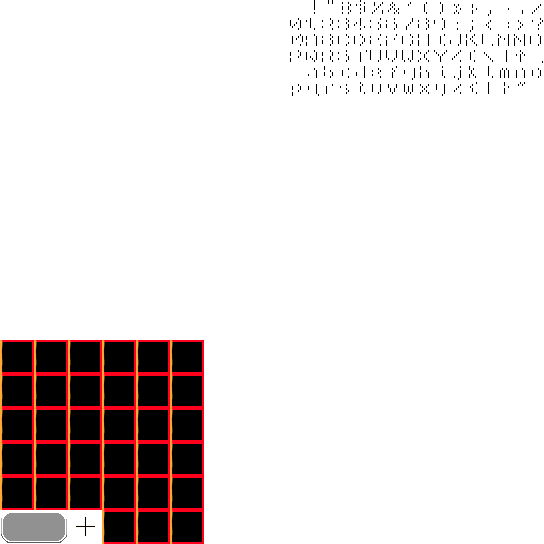
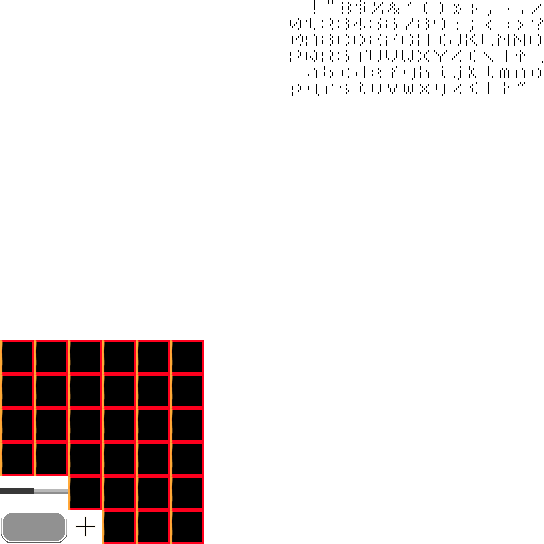
add loading screen when loading world (god the hacks)

Changed region(s): [[0.0, 0.875, 0.125, 0.9375]]

diff --git a/src/game.cpp b/src/game.cpp
@@ -40,8 +40,10 @@ grounded(true)
     goToMainMenu();
 
     normalFunc = [this]() {
-
-            stepMovementAndPhysics();
+            if(!loadRendering) {
+                stepMovementAndPhysics();
+            }
+            
 
             
             draw();
@@ -288,13 +290,6 @@ void Game::draw() {
 
 
 
-
-
-
-
-
-
-
             float logoImageWidth = 600;
 
 
@@ -332,33 +327,47 @@ void Game::draw() {
 
             glDrawArrays(GL_TRIANGLES, 0, logoDisplayData.size()/5);
 
-            
-
-
-
-
-
-
-
-
-
-
-
-
-
-
-
-
-
-
-
 
         }
 
     }
 
     if(!inGame) {
-        glUseProgram(menuShader->shaderID);
+        drawBackgroundImage();
+    }
+
+    if(inGame) {
+        //std::cout << loadRendering << "\n";
+
+        if(!loadRendering)
+        {
+            glUseProgram(menuShader->shaderID);
+            glBindTexture(GL_TEXTURE_2D, menuTexture);
+
+            if(hud->uploaded) {
+                bindMenuGeometryNoUpload(hud->vbo);
+            } else {
+                bindMenuGeometry(hud->vbo,
+                hud->displayData.data(),
+                hud->displayData.size());
+            }
+            glDrawArrays(GL_TRIANGLES, 0, hud->displayData.size()/5);
+        }
+
+        stepChunkDraw();
+
+        
+        glBindVertexArray(VAO);
+        updateAndDrawSelectCube();
+        drawBlockOverlay();
+    }
+
+
+    glfwSwapBuffers(window);
+}
+
+void Game::drawBackgroundImage() {
+    glUseProgram(menuShader->shaderID);
         glBindTexture(GL_TEXTURE_2D, menuBackgroundTexture);
         static GLuint backgroundVbo = 0;
         if(backgroundVbo == 0) {
@@ -388,32 +397,6 @@ void Game::draw() {
             bindMenuGeometryNoUpload(backgroundVbo);
         }
         glDrawArrays(GL_TRIANGLES, 0, backgroundImageData.size() / 5);
-    }
-
-    if(inGame) {
-        
-        glUseProgram(menuShader->shaderID);
-        glBindTexture(GL_TEXTURE_2D, menuTexture);
-
-        if(hud->uploaded) {
-            bindMenuGeometryNoUpload(hud->vbo);
-        } else {
-            bindMenuGeometry(hud->vbo,
-            hud->displayData.data(),
-            hud->displayData.size());
-        }
-        glDrawArrays(GL_TRIANGLES, 0, hud->displayData.size()/5);
-
-        stepChunkDraw();
-
-        
-        glBindVertexArray(VAO);
-        updateAndDrawSelectCube();
-        drawBlockOverlay();
-    }
-
-
-    glfwSwapBuffers(window);
 }
 
 void Game::stepChunkDraw() {
@@ -430,6 +413,8 @@ void Game::stepChunkDraw() {
     //     }
     //     std::cout << std::endl;
     // }
+
+    static float numMustLoad = 200;
 
     GLuint mvp_loc = glGetUniformLocation(worldShader->shaderID, "mvp");
     glUniformMatrix4fv(mvp_loc, 1, GL_FALSE, glm::value_ptr(camera->mvp));
@@ -510,6 +495,10 @@ void Game::stepChunkDraw() {
                 GeometryStore &geometryStore = voxelWorld.geometryStorePool[voxelWorld.geometryStoresToRebuild.back()];
                 if(!registry.all_of<MeshComponent>(geometryStore.me)) {
                     MeshComponent m;
+                    glDeleteBuffers(1, &m.vbov);
+                    glDeleteBuffers(1, &m.vbouv);
+                    glGenBuffers(1, &m.vbov);
+                    glGenBuffers(1, &m.vbouv);
                     m.length = geometryStore.verts.size();
                     bindWorldGeometry(
                         m.vbov,
@@ -520,6 +509,10 @@ void Game::stepChunkDraw() {
                         geometryStore.uvs.size()
                     );
                     //Transparent stuff
+                                        glDeleteBuffers(1, &m.tvbov);
+                    glDeleteBuffers(1, &m.tvbouv);
+                    glGenBuffers(1, &m.tvbov);
+                    glGenBuffers(1, &m.tvbouv);
                     m.tlength = geometryStore.tverts.size();
                     bindWorldGeometry(
                         m.tvbov,
@@ -565,30 +558,44 @@ void Game::stepChunkDraw() {
                 }
                 voxelWorld.geometryStoresToRebuild.pop_back();
                 voxelWorld.meshQueueMutex.unlock();
+                if(loadRendering) {
+
+                    initialChunksRendered += 1;
+                    //std::cout << initialChunksRendered << "\n";
+                    if(initialChunksRendered >= numMustLoad) {
+                        //std::cout << "Done! Rendered " << numMustLoad << " chunks.\n";
+                        loadRendering = false;
+                    }
+                }
             }
         }
     }
 
-    
+    if(loadRendering) {
+        float progress = (numMustLoad + initialChunksRendered) / (numMustLoad  * 2.0f);
+        displayLoadScreen("Rendering world", progress, true);
+    } else {
         auto meshesView = registry.view<MeshComponent>();
-    for(const entt::entity e : meshesView) {
-        MeshComponent &m = registry.get<MeshComponent>(e);
-        //std::cout << "ddrawing a chunk of size " << m.length << "\n";
-        bindWorldGeometryNoUpload(
-            m.vbov,
-            m.vbouv
-        );
-        glDrawArrays(GL_TRIANGLES, 0, m.length);
+        for(const entt::entity e : meshesView) {
+            MeshComponent &m = registry.get<MeshComponent>(e);
+            //std::cout << "ddrawing a chunk of size " << m.length << "\n";
+            bindWorldGeometryNoUpload(
+                m.vbov,
+                m.vbouv
+            );
+            glDrawArrays(GL_TRIANGLES, 0, m.length);
+        }
+        for(const entt::entity e : meshesView) {
+            MeshComponent &m = registry.get<MeshComponent>(e);
+            //std::cout << "ddrawing a chunk of size " << m.length << "\n";
+            bindWorldGeometryNoUpload(
+                m.tvbov,
+                m.tvbouv
+            );
+            glDrawArrays(GL_TRIANGLES, 0, m.tlength);
+        }
     }
-    for(const entt::entity e : meshesView) {
-        MeshComponent &m = registry.get<MeshComponent>(e);
-        //std::cout << "ddrawing a chunk of size " << m.length << "\n";
-        bindWorldGeometryNoUpload(
-            m.tvbov,
-            m.tvbouv
-        );
-        glDrawArrays(GL_TRIANGLES, 0, m.tlength);
-    }
+    
 
 
 }
@@ -832,7 +839,8 @@ void Game::changeViewDistance(int newValue) {
 void Game::goToSingleplayerWorld(const char *worldname) {
 
 
-
+    voxelWorld.initialLoadProgress = 0;
+    loadRendering = true;
 
     voxelWorld.populateChunksAndGeometryStores(registry, viewDistance);
 
@@ -852,9 +860,95 @@ void Game::goToSingleplayerWorld(const char *worldname) {
     voxelWorld.chunkUpdateThread.detach();
 
 
+
+    while(static_cast<float>(voxelWorld.initialLoadProgress) / ((viewDistance*2) * (viewDistance*2)) < 1.0f) {
+        //std::cout << static_cast<float>(voxelWorld.initialLoadProgress) / ((viewDistance*2) * (viewDistance*2)) << "\n";
+        displayLoadScreen("Loading world", static_cast<float>(voxelWorld.initialLoadProgress) / (((viewDistance*2) * (viewDistance*2))*2.0f), false);
+
+    }
+
     camera->setFocused(true);
 
     inGame = true;
+}
+
+void Game::displayLoadScreen(const char* message, float progress, bool inMainLoop) {
+
+if(!inMainLoop) {
+    glClear(GL_COLOR_BUFFER_BIT | GL_DEPTH_BUFFER_BIT);
+    glClearColor(0.639, 0.71, 1.0, 0.5);
+}
+
+    glBindVertexArray(VAO);
+
+
+
+        glUseProgram(menuShader->shaderID);
+        glBindTexture(GL_TEXTURE_2D, menuTexture);
+
+        static GLuint lsvbo = 0;
+            glDeleteBuffers(1, &lsvbo);
+            glGenBuffers(1, &lsvbo);
+
+
+        float width = (500.0f/windowWidth);
+        float height = (40.0f/windowHeight);
+
+        glm::vec2 leftStart(-width/2.0f, -height/2.0f);
+
+        TextureFace blank(0,1);
+        TextureFace full(1,1);
+
+        std::vector<float> displayData = {
+            leftStart.x,                leftStart.y,        full.bl.x,  full.bl.y,  -1.0f,
+            leftStart.x,                leftStart.y+height, full.tl.x,  full.tl.y,  -1.0f,
+            leftStart.x+width*progress, leftStart.y+height, full.tr.x,  full.tr.y,  -1.0f,
+
+            leftStart.x+width*progress, leftStart.y+height, full.tr.x,  full.tr.y,  -1.0f,
+            leftStart.x+width*progress, leftStart.y,        full.br.x,  full.br.y,  -1.0f,
+            leftStart.x,                leftStart.y,        full.bl.x,  full.bl.y,  -1.0f,
+
+            leftStart.x,                leftStart.y,        blank.bl.x, blank.bl.y, -1.0f,
+            leftStart.x,                leftStart.y+height, blank.tl.x, blank.tl.y, -1.0f,
+            leftStart.x+width,          leftStart.y+height, blank.tr.x, blank.tr.y, -1.0f,
+
+            leftStart.x+width,          leftStart.y+height, blank.tr.x, blank.tr.y, -1.0f,
+            leftStart.x+width,          leftStart.y,        blank.br.x, blank.br.y, -1.0f,
+            leftStart.x,                leftStart.y,        blank.bl.x, blank.bl.y, -1.0f
+        };
+
+        float letHeight = (32.0f/windowHeight);
+        float letWidth = (32.0f/windowWidth);
+        float lettersCount = std::strlen(message);
+        float totletwid = letWidth * lettersCount;
+        glm::vec2 letterStart(-totletwid/2, -letHeight/2 + 0.2f);
+
+        GlyphFace glyph;
+
+        for(int i = 0; i < lettersCount; i++) {
+            glyph.setCharCode(static_cast<int>(message[i]));
+            glm::vec2 thisLetterStart(letterStart.x + i*letWidth, letterStart.y);
+            displayData.insert(displayData.end(), {
+                thisLetterStart.x, thisLetterStart.y,                     glyph.bl.x, glyph.bl.y, -1.0f,
+                thisLetterStart.x, thisLetterStart.y+letHeight,           glyph.tl.x, glyph.tl.y, -1.0f,
+                thisLetterStart.x+letWidth, thisLetterStart.y+letHeight, glyph.tr.x, glyph.tr.y, -1.0f,
+
+                thisLetterStart.x+letWidth, thisLetterStart.y+letHeight, glyph.tr.x, glyph.tr.y, -1.0f,
+                thisLetterStart.x+letWidth, thisLetterStart.y,           glyph.br.x, glyph.br.y, -1.0f,
+                thisLetterStart.x, thisLetterStart.y,                     glyph.bl.x, glyph.bl.y, -1.0f
+            });
+        }
+        
+        bindMenuGeometry(lsvbo, displayData.data(), displayData.size());
+
+        glDrawArrays(GL_TRIANGLES, 0, displayData.size() / 5);
+
+        drawBackgroundImage();
+
+    glBindVertexArray(0);
+    if(!inMainLoop) {
+        glfwSwapBuffers(window);
+    }
 }
 
 void Game::updateTime() {

diff --git a/src/game/voxelworld.cpp b/src/game/voxelworld.cpp
@@ -74,7 +74,11 @@ void VoxelWorld::chunkUpdateThreadFunction(int* loadRadius) {
                         if(!runChunkThread || deferredChunksToRebuild.size() > 0) {
                             break;
                         }
+                        if(first) {
+                            initialLoadProgress += 1;
+                        }
                     }
+
                     if(!runChunkThread || deferredChunksToRebuild.size() > 0) {
                         break;
                     }

diff --git a/src/game.h b/src/game.h
@@ -160,6 +160,13 @@ public:
     void cleanUpParticleDisplayData();
 
     void runPeriodicTick();
+    
+    void displayLoadScreen(const char *message, float progress, bool inMainLoop);
+
+    void drawBackgroundImage();
+
+    inline static int initialChunksRendered = 0;
+    inline static bool loadRendering = true;
 
     Game();
 private:

diff --git a/src/game/voxelworld.h b/src/game/voxelworld.h
@@ -79,5 +79,7 @@ public:
     bool saveExists(const char* path);
     void saveWorldToFile(const char *path) noexcept(false);
     void loadWorldFromFile(const char *path) noexcept(false);
+    
+    inline static int initialLoadProgress = 0;
 };
 #endif
